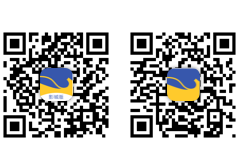
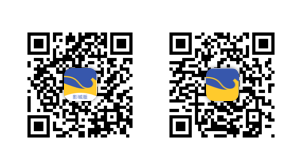
二维码图片增加距离

diff --git a/src/views/portal/login/components/qrcode.vue b/src/views/portal/login/components/qrcode.vue
@@ -1,6 +1,6 @@
 <template>
   <div>
-    <img src="../assets/QR.png" class="qr-code" width="200" />
+    <img src="../assets/QR.png" class="qr-code" width="300" />
   </div>
 </template>
 
